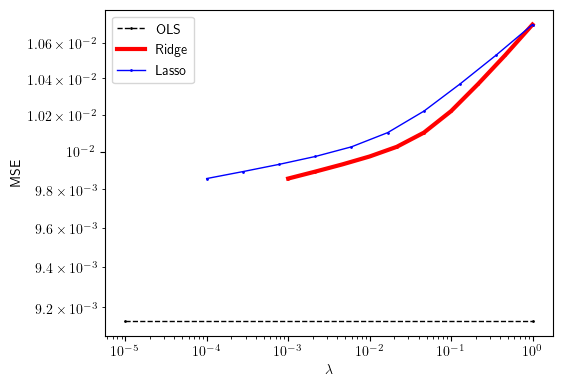
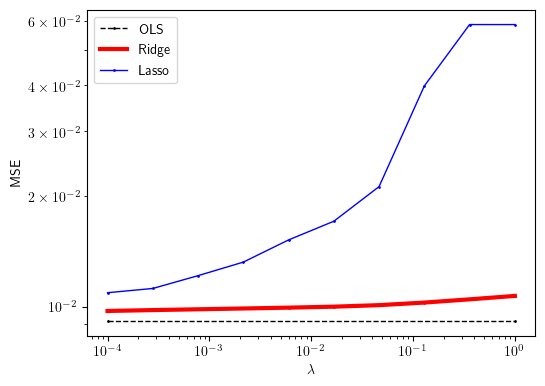
modifying codes

diff --git a/Project1/b_c.py b/Project1/b_c.py
@@ -35,8 +35,7 @@ def plot_MSE_Complexity(degree = 5, graph = True):
     graph: Binary type with inputs True/False. If True, plots the MSE on the train and test data
     """
     
-    ##Make synthetic data
-    n = 300
+    n = 300  ##Make synthetic data
     np.random.seed(18271)
     x1 = np.random.rand(n)
     np.random.seed(91837)
@@ -47,7 +46,9 @@ def plot_MSE_Complexity(degree = 5, graph = True):
     x1_train, x1_test, x2_train, x2_test, y_train, y_test = train_test_split(x1, x2, y, test_size=0.2)
     MSE_train     = []
     MSE_test      = []
+    
     ##fit OLS with polynomial of different degree and compute MSE on the train and test data(with scaling)
+    
     for degs in range(1, degree+1):
         X_train_     = designMatrix(x1_train, x2_train, degs)
         scaler = StandardScaler()
@@ -66,11 +67,13 @@ def plot_MSE_Complexity(degree = 5, graph = True):
         pred_test_ = linreg.predict(X_test_)
         MSE_test_ = linreg.MSE(y_test)
         MSE_test.append(MSE_test_)
+        
     print('-------------------------------------------------')
     print('MSE_test: {}' .format(np.round(MSE_test, 4)))
     print('MSE_train: {}' .format(np.round(MSE_train, 4)))
     print('The polynomial fit of degree {} performs best' .format(MSE_test.index(min(MSE_test))+1))
     print('-------------------------------------------------')
+    
     if graph == True:
         plot, ax = plt.subplots()
         plt.xlabel('Complexity (Order of polynomial)')
@@ -83,10 +86,11 @@ def plot_MSE_Complexity(degree = 5, graph = True):
         plt.legend()
         plt.subplots_adjust(left=0.2,bottom=0.2,right=0.9)
         #plt.savefig(os.path.join(os.path.dirname(__file__), 'Plots', 'MSE_train_test.png'), transparent=True, bbox_inches='tight')
+    
     return plt.show()
 
-##train and test data MSE  
-plot_MSE_Complexity(degree = 10, graph = True)  
+ 
+plot_MSE_Complexity(degree = 10, graph = True)  ##train and test data MSE 
 
 
 
@@ -103,8 +107,7 @@ def plot_bias_var_tradeoff(ndegree = 6, method = 'ols'):
     method:  character type. Accepts only the arguments 'ols', 'ridge', 'lasso'
     """
     
-    ##Create synthetic data
-    n = 500
+    n = 500  ##Create synthetic data
     np.random.seed(18271)
     x1 = np.random.rand(n)
     np.random.seed(91837)
@@ -113,7 +116,9 @@ def plot_bias_var_tradeoff(ndegree = 6, method = 'ols'):
     bias = []
     var = []
     MSE = []
+    
     ##compute bias, variance and mse using bootstrap
+    
     for deg in range(1, ndegree + 1):
         bias_, var_, mse_, betavar_ = Bootstrap(x1, x2, y, degrees = deg, method = method)
         bias.append(bias_)
@@ -132,6 +137,7 @@ def plot_bias_var_tradeoff(ndegree = 6, method = 'ols'):
     plt.legend()
     plt.subplots_adjust(left=0.2,bottom=0.2,right=0.9)
     #plt.savefig(os.path.join(os.path.dirname(__file__), 'Plots', 'ols_bias_var.png'), transparent=True, bbox_inches='tight')
+    
     return plt.show()
   
   
@@ -152,6 +158,7 @@ def plot_franke_noise() :
     
     """
     ##Make synthetic data
+    
     n = 1000
     np.random.seed(18271)
     x1 = np.random.rand(n)
@@ -166,8 +173,7 @@ def plot_franke_noise() :
 
     noise = np.logspace(-4,0,50)
     k = 1
-
-    
+  
     for eta in noise :
         y_data_noise = y +  eta * np.random.standard_normal(size = y.size)
         linreg = linregOwn(method = 'ols')
@@ -190,6 +196,7 @@ def plot_franke_noise() :
         linreg_NOnoise.predict(X_test)
         MSE.append(linreg.MSE(y_test))
         R2. append(linreg.R2(y_test))
+        
     fig, ax1 = plt.subplots()
     ax1.loglog(noise, 1-np.array(R2_noise),'k-o',markersize=2)
     ax1.loglog(noise, 1-np.array(R2),'k--',markersize=2)

diff --git a/Project1/d_e.py b/Project1/d_e.py
@@ -46,8 +46,8 @@ def MSE_Ridge_Lasso(method = 'lasso') :
 
 
     ind = -1
-    ##10 is a default base
-    for lambda_ in np.logspace(-2, 0, 3) :    
+
+    for lambda_ in np.logspace(-2, 0, 3) :    ##10 is a default base 
         ind += 1
         MSE_noise = []
 
@@ -59,6 +59,7 @@ def MSE_Ridge_Lasso(method = 'lasso') :
             
             ##Compute MSE using cross-validation. Might take some time before we get plots, should be optimized with jit
             ##but no time to do that for all classes
+            
             n = int(1000)
             np.random.seed(18271)
             x1 = np.random.rand(n)
@@ -81,6 +82,7 @@ def MSE_Ridge_Lasso(method = 'lasso') :
             #R2_noise.          append(linreg.R2(y_noise_test))
             #MSE.append(linreg.MSE(y_test))
             #R2.append(linreg.MSE(y_test))
+            
             MSE_noise     .append(means_noise[0])
             MSE           .append(means[0])
 
@@ -91,6 +93,7 @@ def MSE_Ridge_Lasso(method = 'lasso') :
             ax1.loglog(noise, np.array(MSE_noise), colors[ind]+'-o', markersize=5, label=r"OLS")
         else :
             ax1.loglog(noise, np.array(MSE_noise), colors[ind]+'-o', markersize=1, label=r"$\lambda=10^{%d}$"%(int(np.log10(lambda_))))
+        
         plt.ylabel(r"MSE", fontsize=10)
         plt.xlabel(r"noise scale $\eta$", fontsize=10)
         plt.subplots_adjust(left=0.2,bottom=0.2)
@@ -152,8 +155,7 @@ def plot_beta(method = 'ridge') :
         linreg.predict(X_test)
         var, low, up = linreg.CI(y_test)
         
-        ##Append lists together
-        beta.append(linreg.fit(X_train, y_noise_train, lambda_))
+        beta.append(linreg.fit(X_train, y_noise_train, lambda_)) ##Append lists together
         beta_variance.append(np.sqrt(var))
 
     beta = np.array(beta)
@@ -198,6 +200,8 @@ def plot_beta(method = 'ridge') :
 plot_beta(method = 'ridge')
 plot_beta(method = 'lasso')
 
+
+
 #####Bias-variance tradeoff for different values of lambda
 
 def plot_bias_var_tradeoff(ndegree = 5, method = 'ols'):
@@ -210,8 +214,7 @@ def plot_bias_var_tradeoff(ndegree = 5, method = 'ols'):
     method: character type, accepts arguments 'ols', 'ridge' or 'lasso'
     """
     
-    ##make synthetic data
-    n = 500
+    n = 500 ##make synthetic data
     np.random.seed(18271)
     x1 = np.random.rand(n)
     np.random.seed(91837)
@@ -220,6 +223,7 @@ def plot_bias_var_tradeoff(ndegree = 5, method = 'ols'):
     bias = []
     var = []
     MSE = []
+    
     for deg in range(1, ndegree + 1):
         bias_, var_, mse_, betavar_ = Bootstrap(x1, x2, y, degrees = deg, method = method)
         bias.append(bias_)
@@ -229,6 +233,7 @@ def plot_bias_var_tradeoff(ndegree = 5, method = 'ols'):
     plot, ax = plt.subplots()
     plt.xlabel('Complexity (Order of polynomial)')
     plt.ylabel('MSE')
+    
     if method == 'ols':
         plt.title('Bias-Variance tradeoff using bootstrap (OLS)')
     if method == 'ridge':
@@ -243,9 +248,11 @@ def plot_bias_var_tradeoff(ndegree = 5, method = 'ols'):
     ax.yaxis.set_major_formatter(FormatStrFormatter('%.2f'))
     plt.legend()
     plt.subplots_adjust(left=0.2,bottom=0.2,right=0.9)
-    #plt.savefig(os.path.join(os.path.dirname(__file__), 'Plots', 'lasso_bias_var_bootstrap.png'), transparent=True, bbox_inches='tight')
+    #plt.savefig(os.path.join(os.path.dirname(__file__), 'Plots', 'lasso_bias_var.png'), transparent=True, bbox_inches='tight')
 
     return plt.show()
+
+
 
 ##MSE bias-variance tradeoff using bootstrap for different methods
 plot_bias_var_tradeoff(ndegree=6, method = 'ols')

diff --git a/Project1/f_g.py b/Project1/f_g.py
@@ -70,8 +70,7 @@ def data(image_number = 1, plotting = False):
     x2_test = YY.ravel()
     y_test = ZZ.ravel()
     
-    ##plot the data
-    if plotting :
+    if plotting :  ##plot the data
         fig = plt.figure()
         ax = fig.gca(projection='3d')
         ax.plot_surface(X,Y,Z,cmap=cm.coolwarm,linewidth=0, antialiased=False)
@@ -130,8 +129,7 @@ def fit_terrain(plot=False) :
             #plt.savefig(os.path.join(os.path.dirname(__file__), 'Plots', method+'terrain.png'), transparent=True, bbox_inches='tight')
             plt.show()
             
-    ##Plots the extracted test data
-    if plot :
+    if plot :  ##Plots the extracted test data
         x = np.linspace(0, 1, 60)
         y = np.copy(x)
         XX,YY = np.meshgrid(x,y)
@@ -149,6 +147,7 @@ def fit_terrain(plot=False) :
 
 fit_terrain(plot = True)
 
+
 ##Plot MSE for each model by cross-validation
 def MSE_terrain() :
     """
@@ -158,8 +157,7 @@ def MSE_terrain() :
     x1_train, x2_train, y_train, x1_test, x2_test, y_test = data(image_number=2, plotting=False)
 
     degree = 10
-    ## Fit and predict ols
-    linreg = linregOwn(method='ols')
+    linreg = linregOwn(method='ols')  ## Fit and predict ols
     X_train = designMatrix(x1_train, x2_train, degree)
     scaler = StandardScaler()
     scaler.fit(X_train)
@@ -173,12 +171,12 @@ def MSE_terrain() :
     linreg.predict(X_test)
     ols_MSE = linreg.MSE(y_test)
     ols_MSE = np.array([ols_MSE, ols_MSE])
-    ##lambda just for plotting 
-    ols_lambda = np.array([1e-5, 1])
+    ols_lambda = np.array([1e-4, 1])  ##lambda just for plotting
 
     ###Choose lambda for ridge and fit and compute MSE on the test data
-    ridge_lambda = np.logspace(-3,0,10)
+    ridge_lambda = np.logspace(-4,0,10)
     ridge_MSE = []
+    
     for lambda_ in ridge_lambda : 
         print("ridge "+ str(lambda_))
 
@@ -203,6 +201,7 @@ def MSE_terrain() :
     ##Choose lambda for lasso and fit and compute MSE on the test data
     lasso_lambda = np.logspace(-4,0,10)
     lasso_MSE = []
+    
     for lambda_ in lasso_lambda : 
         print("lasso " + str(lambda_))
         linreg = linregOwn(method='lasso')
@@ -220,7 +219,7 @@ def MSE_terrain() :
         yHat = linreg.predict(X_test)
         lasso_MSE.append(np.sum( (y_test-yHat)**2)/len(y_test))
 
-    lasso_MSE = np.array(ridge_MSE)
+    lasso_MSE = np.array(lasso_MSE)
 
     ######################################################## plot
     plt.rc('text', usetex=True)

diff --git a/Project1/a.py b/Project1/a.py
@@ -52,14 +52,12 @@ def plot_franke(x, y, franke_ = False, noise = False, scalor = 0.05, method = 'o
                     'ridge' or 'lasso
     """
     x,y = np.meshgrid(x,y)
-    ##true franke values
-    f = franke(x,y) 
-    ##noisy franke values
-    if(noise):
+    f = franke(x,y) ##true franke values
+    
+    if(noise):  ##noisy franke values
         f = franke(x,y) + scalor*np.random.normal(0, 1, franke(x,y).shape)
     
-    ##fit and predict ols
-    if method == 'ols':
+    if method == 'ols': ##fit and predict ols
         np.random.seed(seed1)
         x_new = np.random.rand(500)
         y_new = np.random.rand(500)
@@ -89,8 +87,8 @@ def plot_franke(x, y, franke_ = False, noise = False, scalor = 0.05, method = 'o
     
         f_predict = np.dot(xb_new, beta)
         F_predict = f_predict.reshape(F_true.shape)
-    ##fit and predict ridge
-    if method == 'ridge':
+    
+    if method == 'ridge': ##fit and predict ridge
         np.random.seed(seed1)
         x_new = np.random.rand(500)
         y_new = np.random.rand(500)
@@ -120,8 +118,8 @@ def plot_franke(x, y, franke_ = False, noise = False, scalor = 0.05, method = 'o
     
         f_predict = np.dot(xb_new, beta)
         F_predict = f_predict.reshape(F_true.shape)
-    ##fit and predict lasso
-    if method == 'lasso':
+    
+    if method == 'lasso': ##fit and predict lasso
         np.random.seed(seed1)
         x_new = np.random.rand(500)
         y_new = np.random.rand(500)
@@ -156,6 +154,7 @@ def plot_franke(x, y, franke_ = False, noise = False, scalor = 0.05, method = 'o
     fig = plt.figure()
     ax = fig.gca(projection='3d') ##get current axis
     ## antialiased controls the transparency of the surface
+    
     if method == 'ols':
         if absolute_error == True:
             surf = ax.plot_surface(Xnew, Ynew,abs(F_predict-F_true), cmap = cm.coolwarm, linewidth = 0, antialiased = False)

diff --git a/Project1/Functions/Bootstrap.py b/Project1/Functions/Bootstrap.py
@@ -53,14 +53,14 @@ def Bootstrap(x1,x2, y, N_boot=500, method = 'ols', degrees = 5, random_state = 
         X_test[:, 0] = 1
         
         if method == 'ols':
-            manual_regression = linregOwn(method = method)
+            manual_regression = linregOwn(method = 'ols')
             beta =  manual_regression.fit(X_train, y_)
         if method == 'ridge':
-            manual_regression = linregOwn(method = method)
-            beta =  manual_regression.fit(X_train, y_, lambda_ = 0.1)
+            manual_regression = linregOwn(method = 'ridge')
+            beta =  manual_regression.fit(X_train, y_, lambda_ = 0.05)
         if method == 'lasso':
-            manual_regression = linregOwn(method = method)
-            beta =  manual_regression.fit(X_train, y_, lambda_ = 0.1)
+            manual_regression = linregOwn(method = 'lasso')
+            beta =  manual_regression.fit(X_train, y_, lambda_ = 0.05)
             
         ##predict on the same test data
         y_pred_test[:, i] = np.dot(X_test, beta)
@@ -76,7 +76,6 @@ def Bootstrap(x1,x2, y, N_boot=500, method = 'ols', degrees = 5, random_state = 
     MSE = np.mean( np.mean((y_test - y_pred_test)**2, axis=1, keepdims=True) )
     bias = np.mean( (y_test - np.mean(y_pred_test, axis=1, keepdims=True))**2 )
     variance = np.mean( np.var(y_pred_test, axis=1, keepdims=True) )
-	##variance along the rows 
     betaVariance = np.var(betaMatrix, axis=1)
     print("-------------------------------------------------------------")
     print("Degree: %d" % degrees)

diff --git a/Project1/Functions/Crossvalidation.py b/Project1/Functions/Crossvalidation.py
@@ -52,8 +52,8 @@ class CrossValidation:
         
         """
         self.lambda_ = lambda_
-        ## Split input data x in k folds of size M
-        M = x1.shape[0]//k
+        M = x1.shape[0]//k   ## Split input data x in k folds of size M
+
         
         ##save the statistic in the list
         MSE_train = []
@@ -67,6 +67,7 @@ class CrossValidation:
         x1_shuff = x1[shf]
         x2_shuff = x2[shf]
         y_shuff = y[shf]
+        
         for i in range(k):
             # x_k and y_k are the hold out data for fold k
             x1_k = x1_shuff[i*M:(i+1)*M]

diff --git a/Project1/Functions/designMat.py b/Project1/Functions/designMat.py
@@ -27,11 +27,10 @@ def designMatrix(x, y, k=5):
     """
     
     xb = np.ones((x.size, 1))
+    
     for i in range(1, k+1):
         for j in range(i+1):
             xb = np.c_[xb, (x**(i-j))*(y**j)]
-    
-    #scaler = StandardScaler()
-    #xb = scaler.fit_transform(xb)
+
     xb[:, 0] = 1
     return xb
